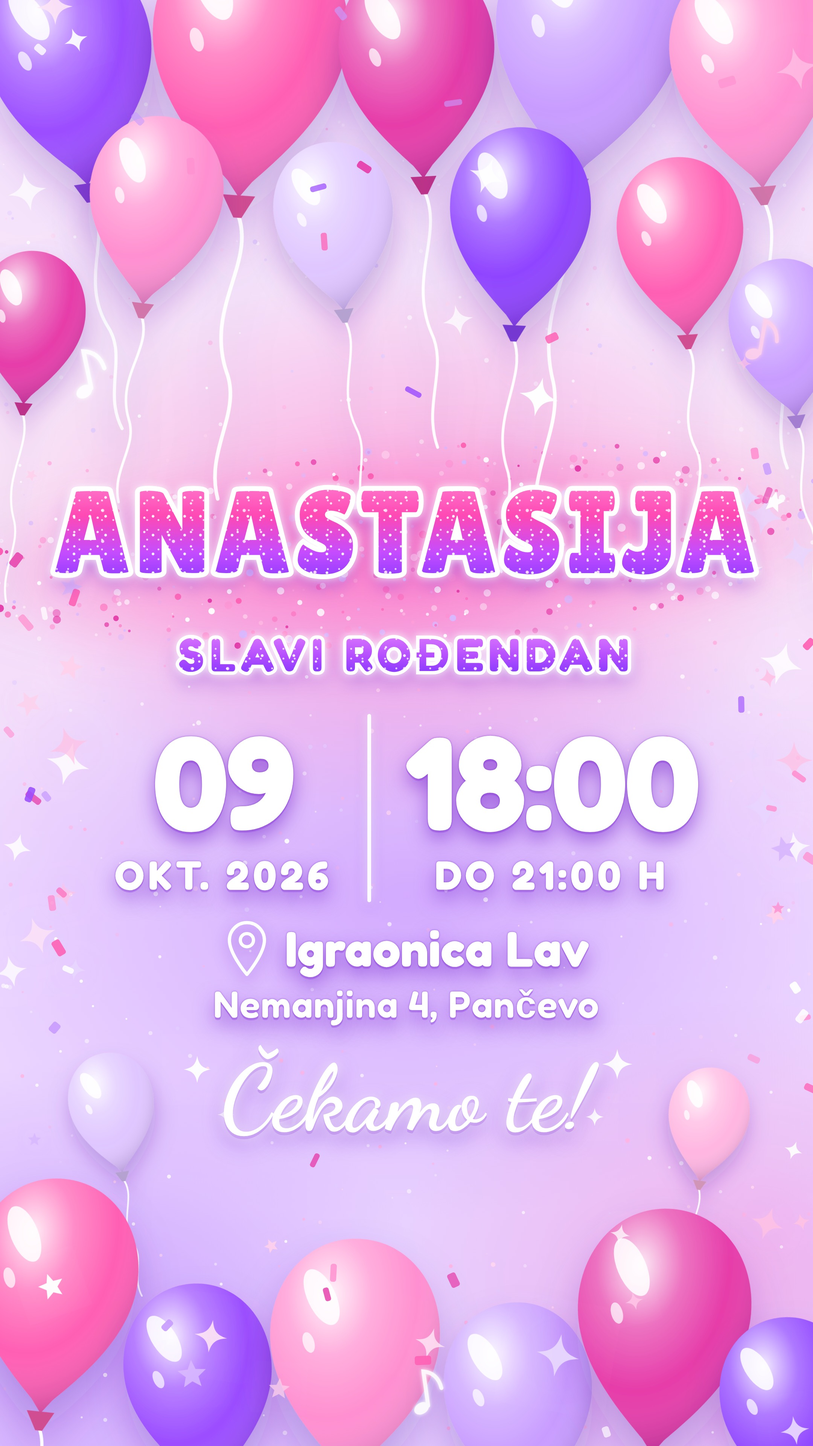
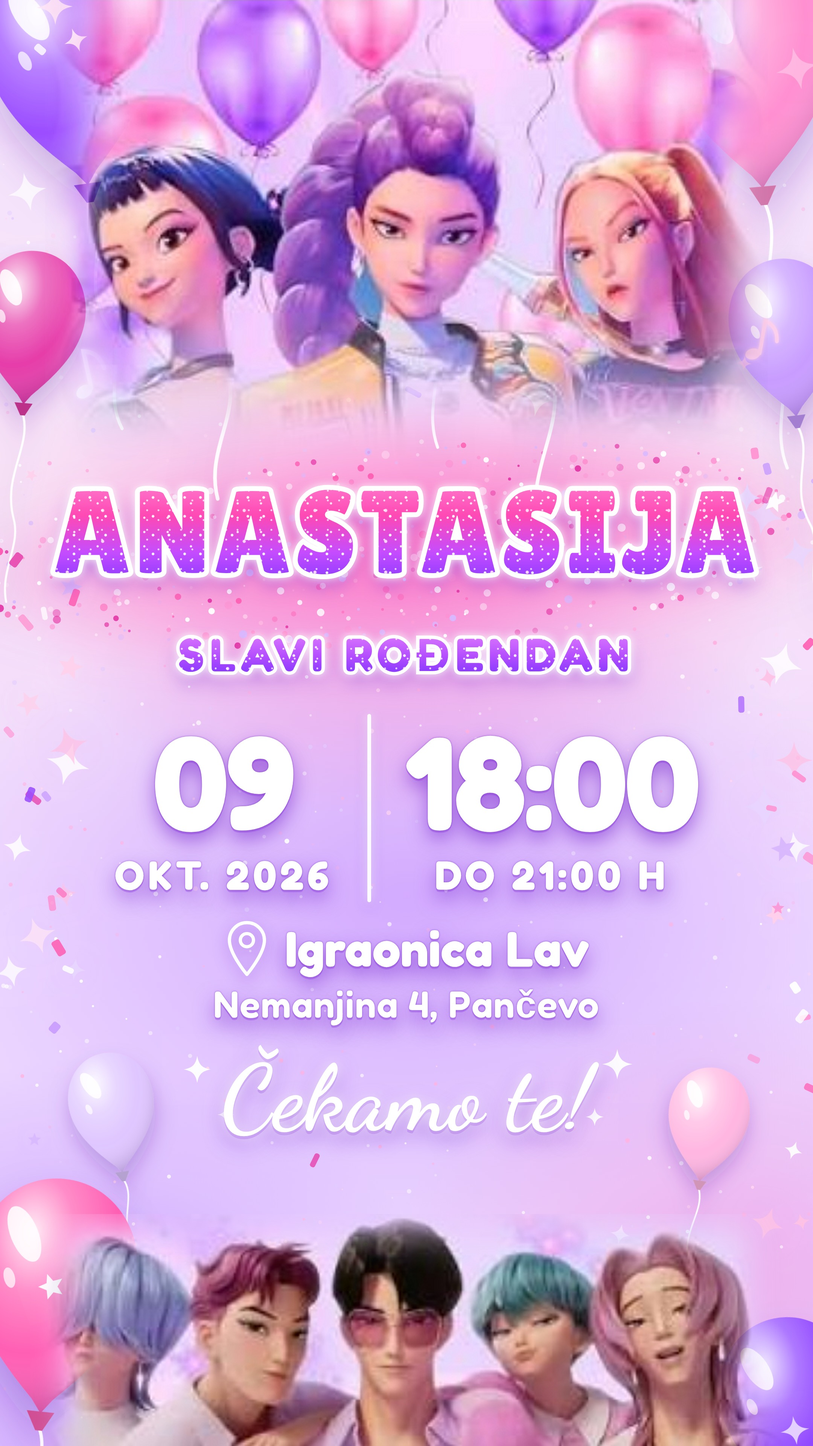
Pozivnica (Anastasija): dodati likovi gore i dole
Likovi su isečeni sa priloženog uzorka, uvećani i dobili meke ivice
(slika-gore.png, slika-dole.png). HTML sada čeka da se slike učitaju pre
rendera i sakriva balone koje bi slike prekrile. Ponovo renderovane slike.

Claude-Session: https://claude.ai/code/session_01WPsLspqn5fgTDtsMpxXm4s

diff --git a/pozivnice/anastasija/pozivnica.html b/pozivnice/anastasija/pozivnica.html
@@ -37,8 +37,8 @@
 
   /* opcione slike (ako postoje fajlovi slika-gore.png / slika-dole.png pored ovog fajla) */
   .art{position:absolute;left:50%;transform:translateX(-50%);object-fit:contain;object-position:bottom;z-index:4}
-  .art-top{top:30px;width:920px;height:570px}
-  .art-bottom{bottom:0;width:1000px;height:430px}
+  .art-top{top:0;width:960px;height:612px}
+  .art-bottom{bottom:0;width:1000px;height:308px}
 
   /* ---------- tekst ---------- */
   .txt{position:absolute;left:0;right:0;display:flex;justify-content:center;z-index:5}
@@ -125,8 +125,8 @@
   <svg class="layer" id="sparkles" viewBox="0 0 1080 1920"></svg>
 
   <!-- opcione slike junaka (dodati fajlove slika-gore.png i slika-dole.png pored ovog fajla) -->
-  <img class="art art-top" src="slika-gore.png" alt="" onerror="this.remove()">
-  <img class="art art-bottom" src="slika-dole.png" alt="" onerror="this.remove()">
+  <img class="art art-top" src="slika-gore.png" alt="" data-zona="gore">
+  <img class="art art-bottom" src="slika-dole.png" alt="" data-zona="dole">
 
   <!-- ime -->
   <div class="txt name"><div class="glit" id="name"><span class="shadow"></span><span class="outline"></span><span class="fill"></span></div></div>
@@ -213,25 +213,26 @@ function el(tag,attrs,parent){const e=document.createElementNS(NS,tag);for(const
     {x:555, y:-60,  w:215, c:'#e63ca9', r:-3},
     {x:780, y:-120, w:260, c:'#c89cff', r:6},
     {x:1000,y:-60,  w:225, c:'#ff8fd0', r:-5},
-    {x:205, y:150,  w:185, c:'#ff8fd0', r:7},
-    {x:445, y:185,  w:165, c:'#dfc6ff', r:-6},
-    {x:690, y:165,  w:195, c:'#8f44ff', r:3},
-    {x:905, y:205,  w:175, c:'#ff5fb3', r:-4},
+    {x:205, y:150,  w:185, c:'#ff8fd0', r:7,  zona:'gore'},
+    {x:445, y:185,  w:165, c:'#dfc6ff', r:-6, zona:'gore'},
+    {x:690, y:165,  w:195, c:'#8f44ff', r:3,  zona:'gore'},
+    {x:905, y:205,  w:175, c:'#ff5fb3', r:-4, zona:'gore'},
     {x:40,  y:330,  w:150, c:'#e63ca9', r:5},
     {x:1045,y:340,  w:155, c:'#c89cff', r:-7},
     // dole
     {x:150, y:1395, w:118, c:'#dfc6ff', r:-9},
     {x:940, y:1415, w:112, c:'#ffb6e1', r:8},
     {x:70,  y:1560, w:230, c:'#ff5fb3', r:6},
-    {x:265, y:1700, w:205, c:'#9b4dff', r:-5},
-    {x:470, y:1640, w:235, c:'#ff8fd0', r:3},
-    {x:690, y:1725, w:205, c:'#c89cff', r:-4},
-    {x:880, y:1600, w:240, c:'#e63ca9', r:5},
+    {x:265, y:1700, w:205, c:'#9b4dff', r:-5, zona:'dole'},
+    {x:470, y:1640, w:235, c:'#ff8fd0', r:3,  zona:'dole'},
+    {x:690, y:1725, w:205, c:'#c89cff', r:-4, zona:'dole'},
+    {x:880, y:1600, w:240, c:'#e63ca9', r:5,  zona:'dole'},
     {x:1050,y:1745, w:190, c:'#8f44ff', r:-6},
   ];
   for(const b of B){
     const s=b.w/100;
     const grp=el('g',{transform:`translate(${b.x-b.w/2} ${b.y}) scale(${s}) rotate(${b.r} 50 70)`,filter:'url(#bshadow)'},g);
+    if(b.zona) grp.setAttribute('data-zona',b.zona);
     // kanap
     const len=rnd(70,95);
     el('path',{d:`M50 146 c 11 ${len*.3} -13 ${len*.6} 0 ${len} c 9 ${len*.25} -8 ${len*.5} 0 ${len*.8}`,fill:'none',stroke:'rgba(255,255,255,.95)','stroke-width':1.8,'stroke-linecap':'round'},grp);
@@ -306,8 +307,19 @@ function glit(text, cls){
   document.getElementById('poruka').textContent=P.poruka;
 })();
 
+/* opcione slike: ako slika postoji, sakrij balone koje bi prekrila; ako ne postoji, ukloni je */
+const slike=[...document.querySelectorAll('img.art')].map(img=>new Promise(res=>{
+  const gotovo=ok=>{
+    if(ok) document.querySelectorAll(`#bgroup [data-zona="${img.dataset.zona}"]`).forEach(b=>b.remove());
+    else img.remove();
+    res();
+  };
+  if(img.complete) gotovo(img.naturalWidth>0);
+  else{ img.onload=()=>gotovo(true); img.onerror=()=>gotovo(false); }
+}));
+
 /* ime se automatski smanjuje da stane u širinu */
-document.fonts.ready.then(()=>{
+Promise.all([document.fonts.ready, ...slike]).then(()=>{
   const n=document.getElementById('name'), fill=n.querySelector('.fill');
   let fs=parseFloat(getComputedStyle(n).fontSize);
   while(fill.offsetWidth>940 && fs>60){fs-=2;n.style.fontSize=fs+'px'}
